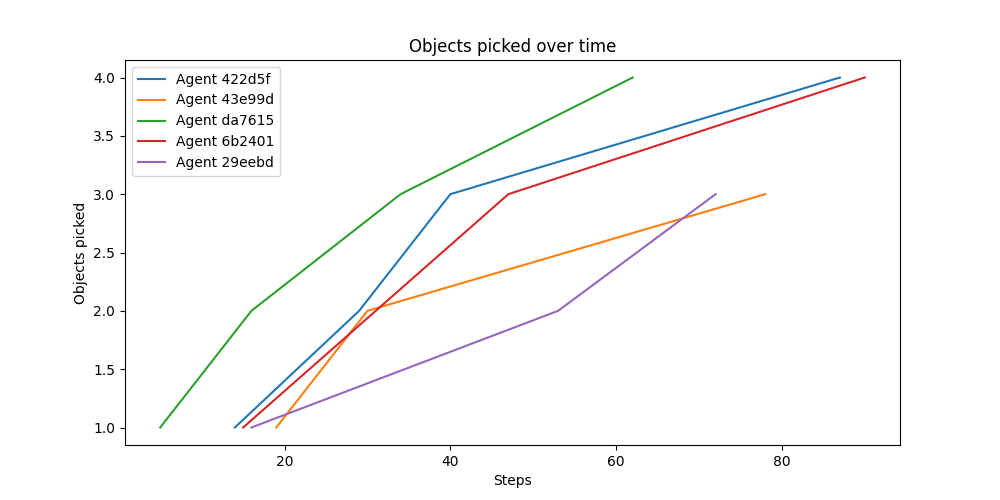
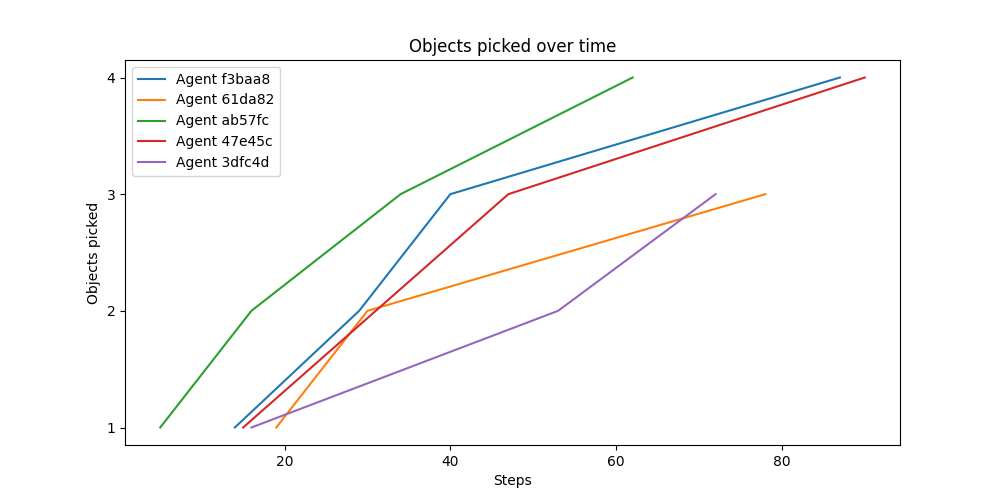
Updated graphs

diff --git a/server/src/models/warehouse.py b/server/src/models/warehouse.py
@@ -201,6 +201,7 @@ class Warehouse():
         plt.xlabel("Steps")
         plt.ylabel("Objects in floor")
         plt.title("Objects in floor over time")
+        plt.gca().yaxis.get_major_locator().set_params(integer=True)
         plt.savefig("global_stats.png")
         plt.close()
 
@@ -216,6 +217,7 @@ class Warehouse():
         plt.xlabel("Steps")
         plt.ylabel("Objects picked")
         plt.title("Objects picked over time")
+        plt.gca().yaxis.get_major_locator().set_params(integer=True)
         plt.legend()
         plt.savefig("agent_stats.png")
         plt.close()
